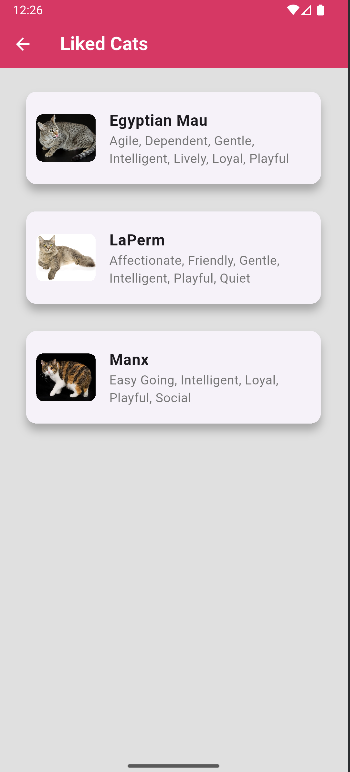
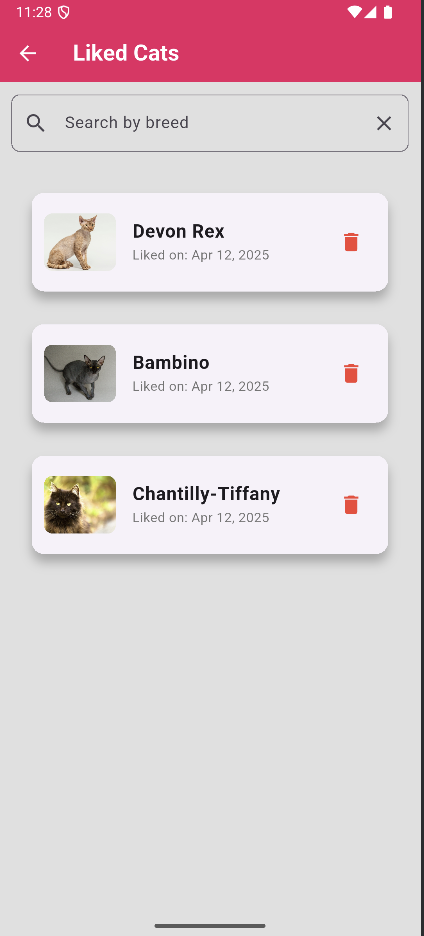
Change screenshots and README

diff --git a/README.md b/README.md
@@ -11,8 +11,15 @@ Cat Tinder - это приложение, которое позволяет ва
 - Увеличение счетчика лайков при каждом лайке котика.
 - Переход на экран детального описания при нажатии на изображение котика.
 - На экране детального описания отображается изображение котика и полная информация о его породе (название, происхождение, темперамент, описание).
-- Отдельный экран со списком всех понравившихся котиков, доступный по нажатию на иконку сердечка в верхней панели.
+- Экран с понравившимися котиками:
+  - Скроллируемый список лайкнутых котиков с изображением, породой и датой лайка.
+  - Возможность удалить котика из списка.
+  - Список хранится только в рантайме, после перезапуска приложения очищается.
+  - Фильтрация по породе (поиск).
+  - Мгновенное обновление списка при выборе фильтра.
 - Возможность просмотра деталей понравившегося котика из списка.
+- Отображение `progress bar` при длительной загрузке.
+- Диалог с ошибкой при проблемах с сетью.
 
 ## Скриншоты интерфейса
 ### Домашний экран
@@ -26,7 +33,7 @@ Cat Tinder - это приложение, которое позволяет ва
 
 
 ## Скачать приложение
-[Скачать APK](https://github.com/andreylikhterman/Flutter_hw1/releases/tag/v1.0.0)
+[Скачать APK](https://github.com/andreylikhterman/Flutter_hw1/releases/tag/v2.0.0)
 
 ## Технологии
 - Flutter
